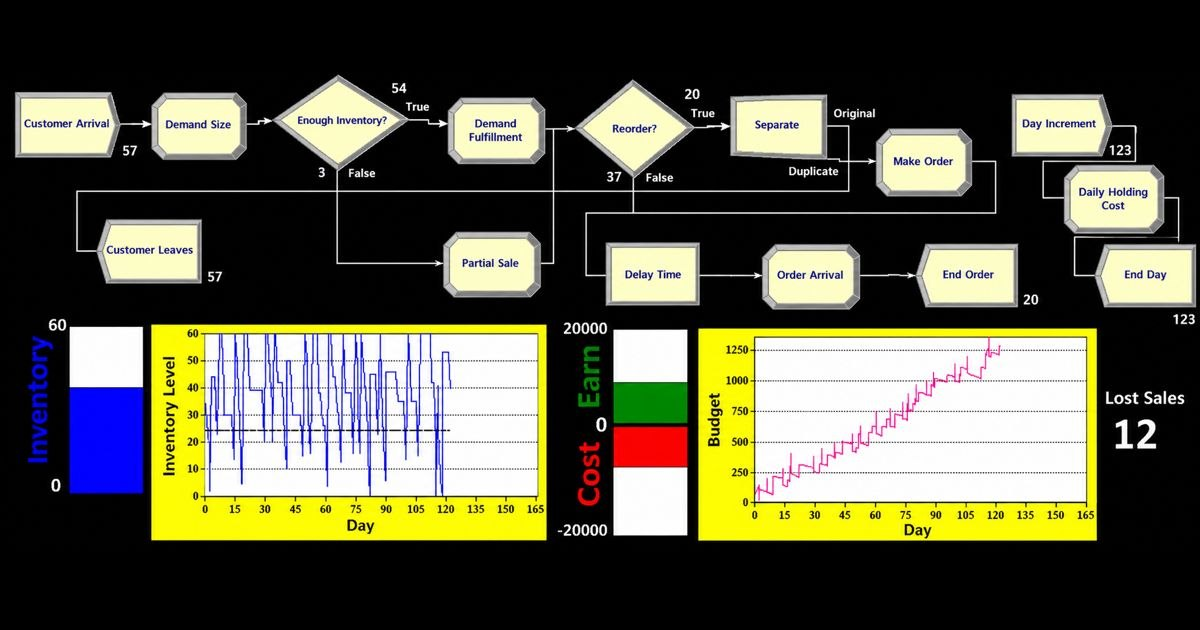
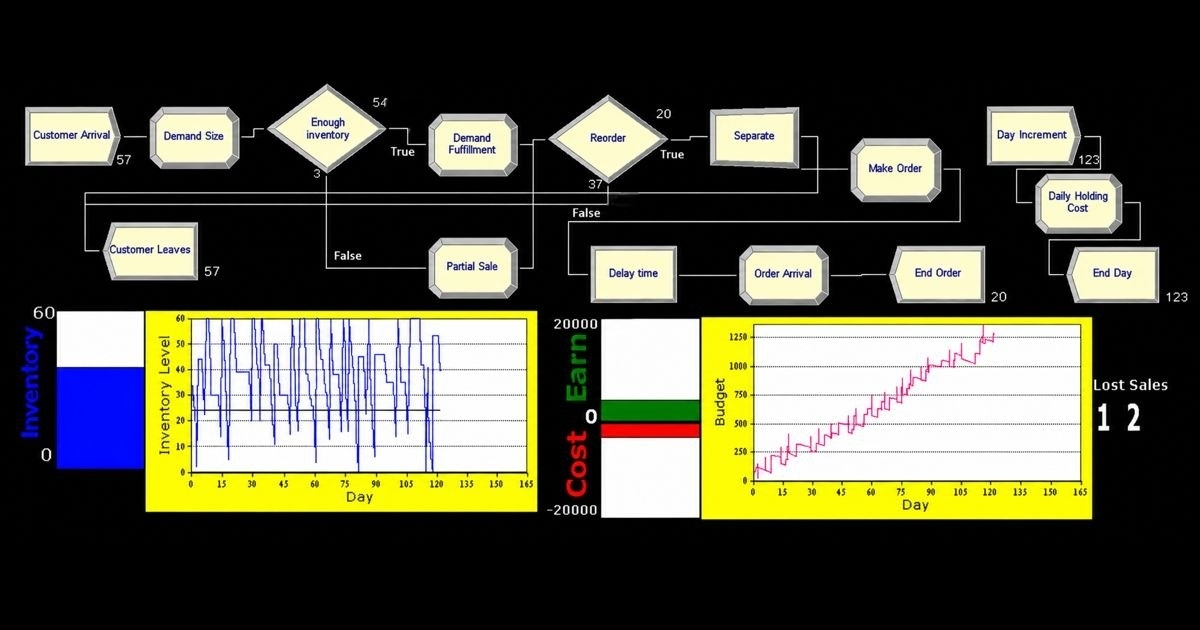
Fixed README.md

diff --git a/README.md b/README.md
@@ -2,7 +2,7 @@
 
 > **A Discrete-Event Simulation of an (s, S) Inventory Policy with Parameter Optimization using Rockwell Arena**
 
-![Arena](screenshots/flowchart.png)
+![Arena](screenshots/arena_model.jpg)
 
 ---
 
@@ -74,7 +74,11 @@ No order is placed.
 
 ---
 
-# Initial Parameters
+# Flowchart
+
+![Flowchart](screenshots/flowchart.png)
+
+# Initial parameters
 
 | Parameter                 | Value            |
 | ------------------------- | ---------------- |
@@ -88,8 +92,6 @@ No order is placed.
 | Customer Arrival Rate (λ) | 2                |
 | Simulation Length         | 365 days         |
 
----
-
 # Stochastic Assumptions
 
 ### Customer Arrivals
@@ -102,8 +104,6 @@ where
 
 **Arrival Rate:** `λ = 2`
 
----
-
 ### Demand Size
 
 Each customer's demand is randomly generated using
@@ -111,8 +111,6 @@ Each customer's demand is randomly generated using
 **Demand Distribution:** `[Uniform[8, 23]]`
 
 note that it's a <<discrete>> uniform distribution on integers from 8 to 23.
-
----
 
 ### Supplier Lead Time
 
